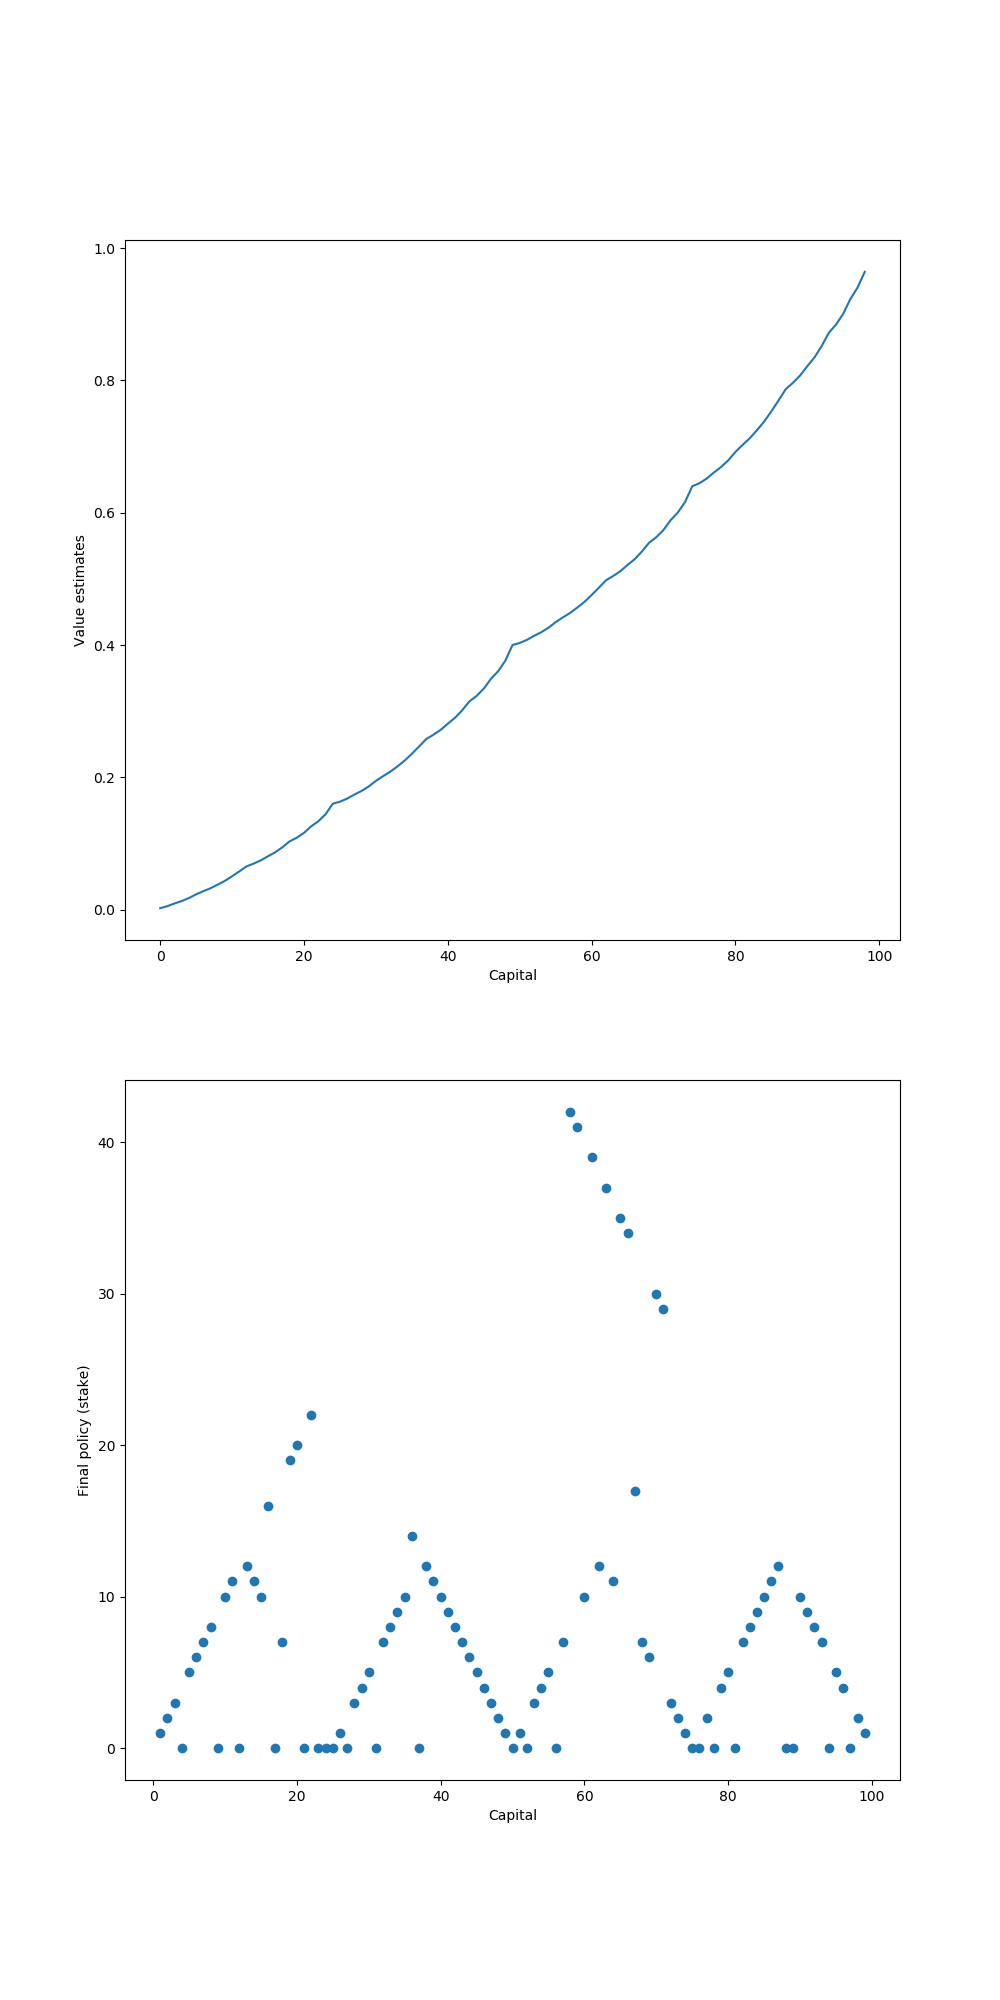
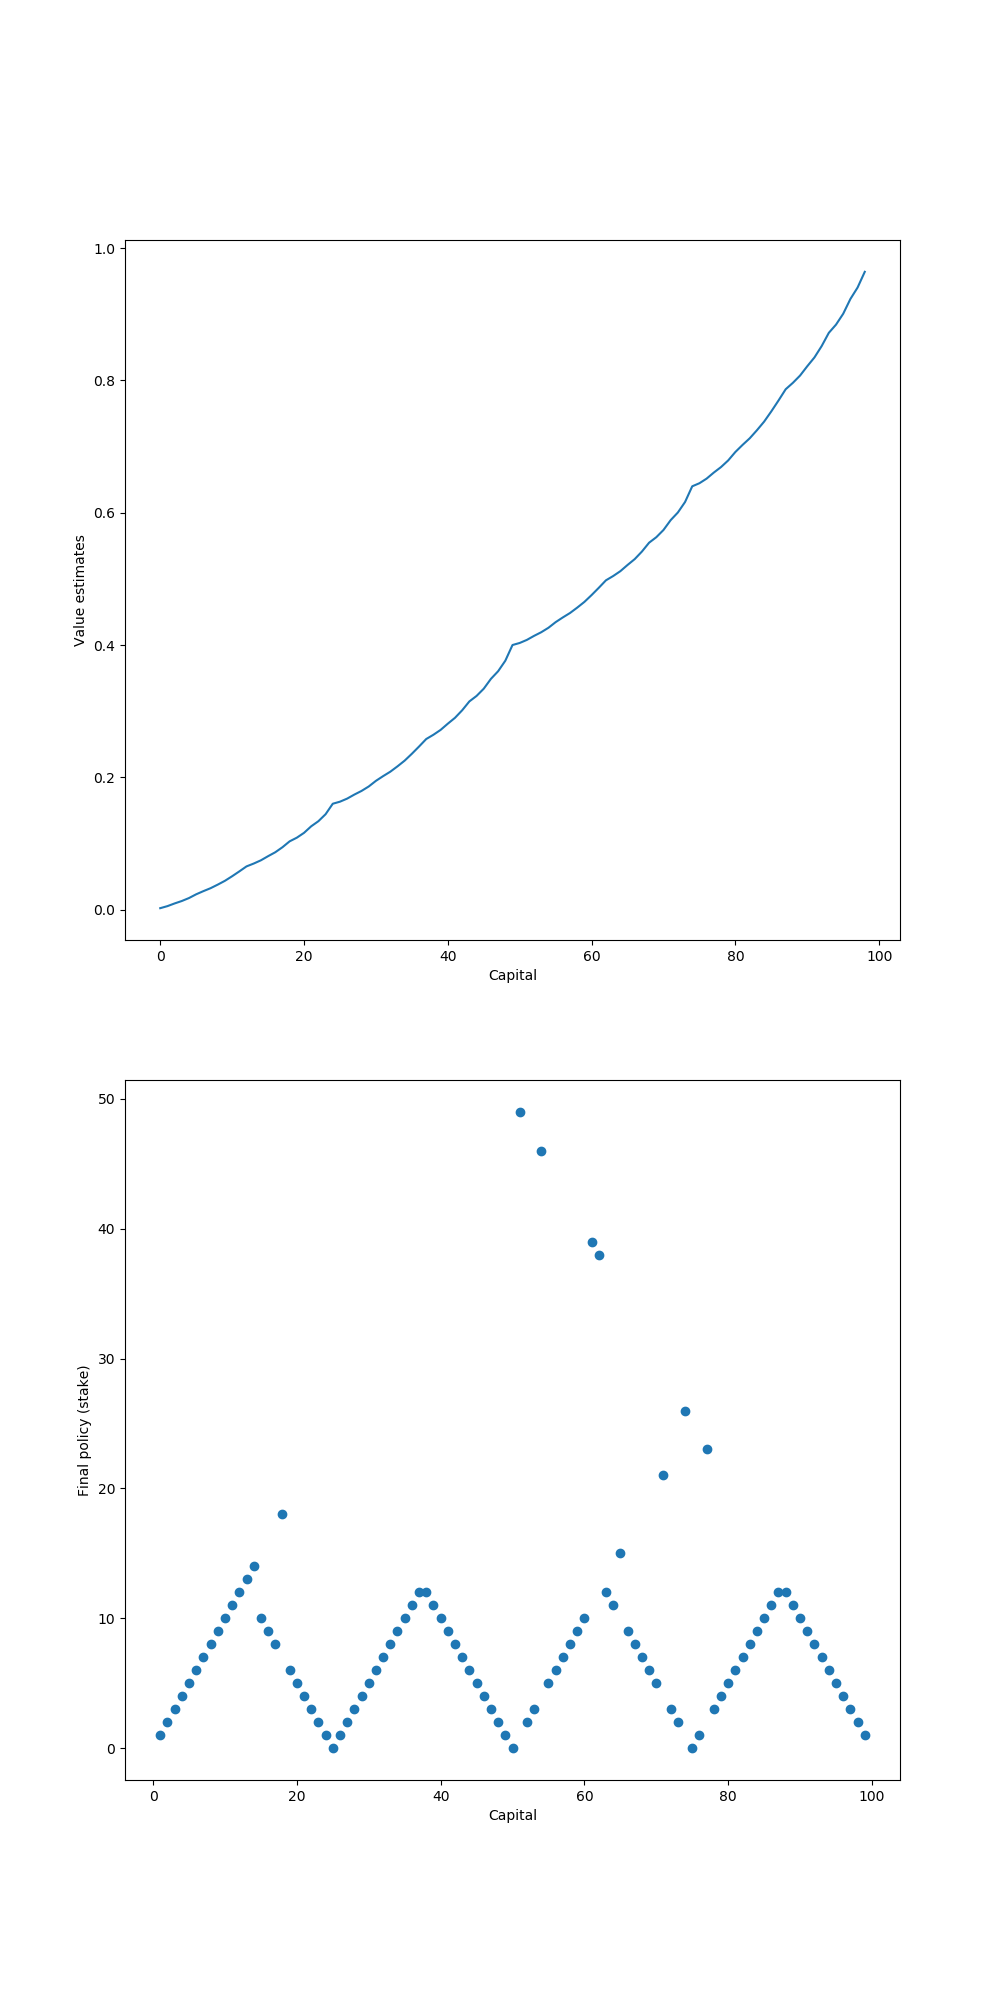
value iteratoin

diff --git a/chap4/value/value_iteration.py b/chap4/value/value_iteration.py
@@ -27,6 +27,7 @@ SOFTWARE.
 import numpy as np
 import matplotlib
 import matplotlib.pyplot as plt
+import copy
 
 
 '''
@@ -48,22 +49,21 @@ def reward(s):
     return 1.0
 
 def step(s, a, value):
-    return ph * (reward(s+a) + value[s+a]) + (1-ph) * (reward(s-a) + value[s-a])
+    gamma = 1.0
+    return ph * (reward(s+a) + gamma * value[s+a]) + (1-ph) * (reward(s-a) + gamma * value[s-a])
 
-def run():
+def run2():
     value = np.zeros(101)  # value is the probability of reaching goal in current state
     policy = np.zeros(99)
     epsilon = 1e-9
-    c = 0
     while True:
-        c += 1
         m = 0.0
         for j in range(99):
             i = j + 1
             oldv = value[i]
             actions = get_actions(i)
-            mv = 0.0
-            ma = 1
+            mv = float('-inf')
+            ma = 0
             for a in actions:
                 v = step(i, a, value)
                 if v > mv:
@@ -76,7 +76,34 @@ def run():
             break
     return value, policy
 
-def plot(value, policy):
+
+def run():
+    value = np.random.rand(101) - 1.0  # if value is initialized arbitrarily, it must be less than 0.0, because value is the probability of reaching goal in current state
+    value[0] = 0.0
+    value[100] = 0.0
+    policy = np.zeros(99)
+    epsilon = 1e-9
+    while True:
+        m = 0.0
+        for j in range(99):
+            i = j + 1
+            oldv = value[i]
+            actions = get_actions(i)
+            mv = float('-inf')
+            ma = 0
+            for a in actions:
+                v = step(i, a, value)
+                if v > mv:
+                    mv = v
+                    ma = a
+            policy[j] = ma
+            value[i] = mv
+            m = max(m, abs(mv-oldv))
+        if m < epsilon:
+            break
+    return value, policy
+
+def plot(value, policy, name):
     plt.figure(figsize=(10, 20))
 
     plt.subplot(2, 1, 1)
@@ -89,9 +116,11 @@ def plot(value, policy):
     plt.xlabel('Capital')
     plt.ylabel('Final policy (stake)')
 
-    plt.savefig('value_iteration.png')
+    plt.savefig(name)
     plt.close()
 
 if __name__ == "__main__":
     value, policy = run()
-    plot(value, policy)
+    plot(value, policy, 'value_iteration.png')
+    value, policy = run2()
+    plot(value, policy, 'value_iteration2.png')

diff --git a/chap4/policy_evaluation.py b/chap4/policy_evaluation.py
@@ -63,7 +63,8 @@ R = 'right'
 D = 'down'
 L = 'left'
 
-VALUE = np.random.rand(16)
+# VALUE = np.random.rand(16)
+VALUE = np.ones(16) * -10000
 VALUE[0] = 0.0
 VALUE[15] = 0.0
 
